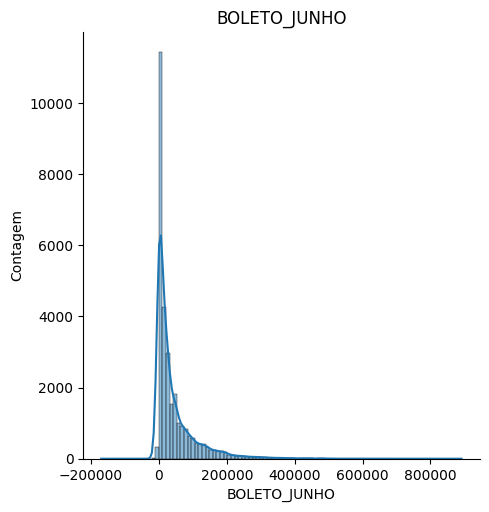
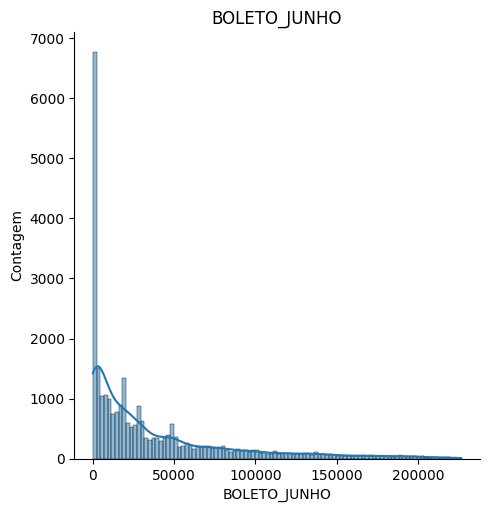
Removing outliers for better graph view

diff --git a/src/plot/plot.py b/src/plot/plot.py
@@ -6,6 +6,10 @@ data_dir = Path(__file__).parent.parent.joinpath('data').resolve()
 
 
 def plot_histogram(x: pd.Series, title: str):
+    if len(x.unique()) > 100:
+        # Remove outliers
+        # Remove a margem de 2.5% e 97.5%, facilitando a visualização
+        x = x[(x >= x.quantile(0.025)) & (x <= x.quantile(0.975))]
     bins = min(100, len(x.unique()))
     plt = sns.displot(x, bins=bins, kde=True)
     plt.set(title=title)
